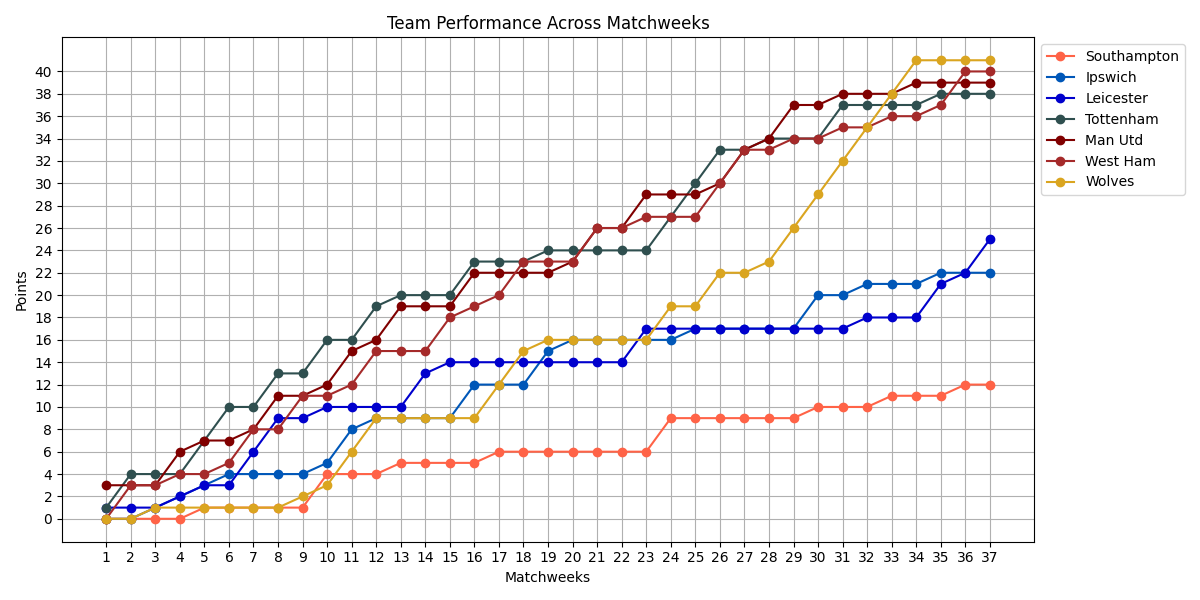
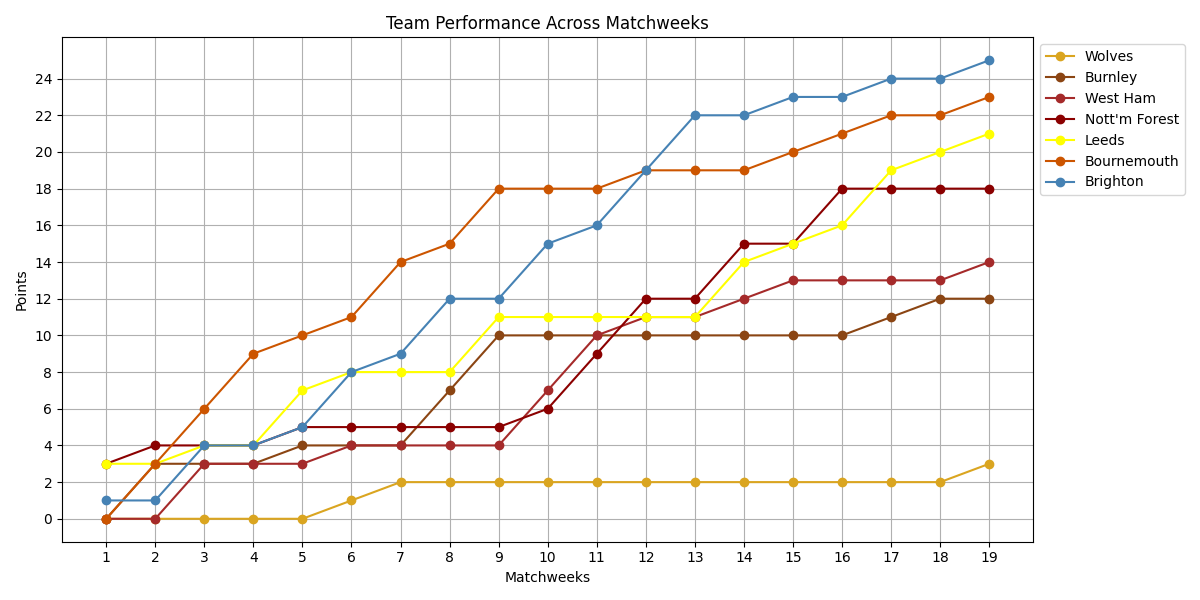
updated charts to current season

diff --git a/main.py b/main.py
@@ -21,7 +21,7 @@ def nextweek(league):
 
 
 
-# plot_league("epl", count)
-# plot_teams(["Arsenal", "Chelsea"])
-# plot_point_difference("Man City", "Man Utd")
-# plot_league_subset(7, "bot")
+plot_league("epl", count)
+plot_teams(["Arsenal", "Chelsea"])
+plot_point_difference("Man City", "Man Utd")
+plot_league_subset(7, "bot")
